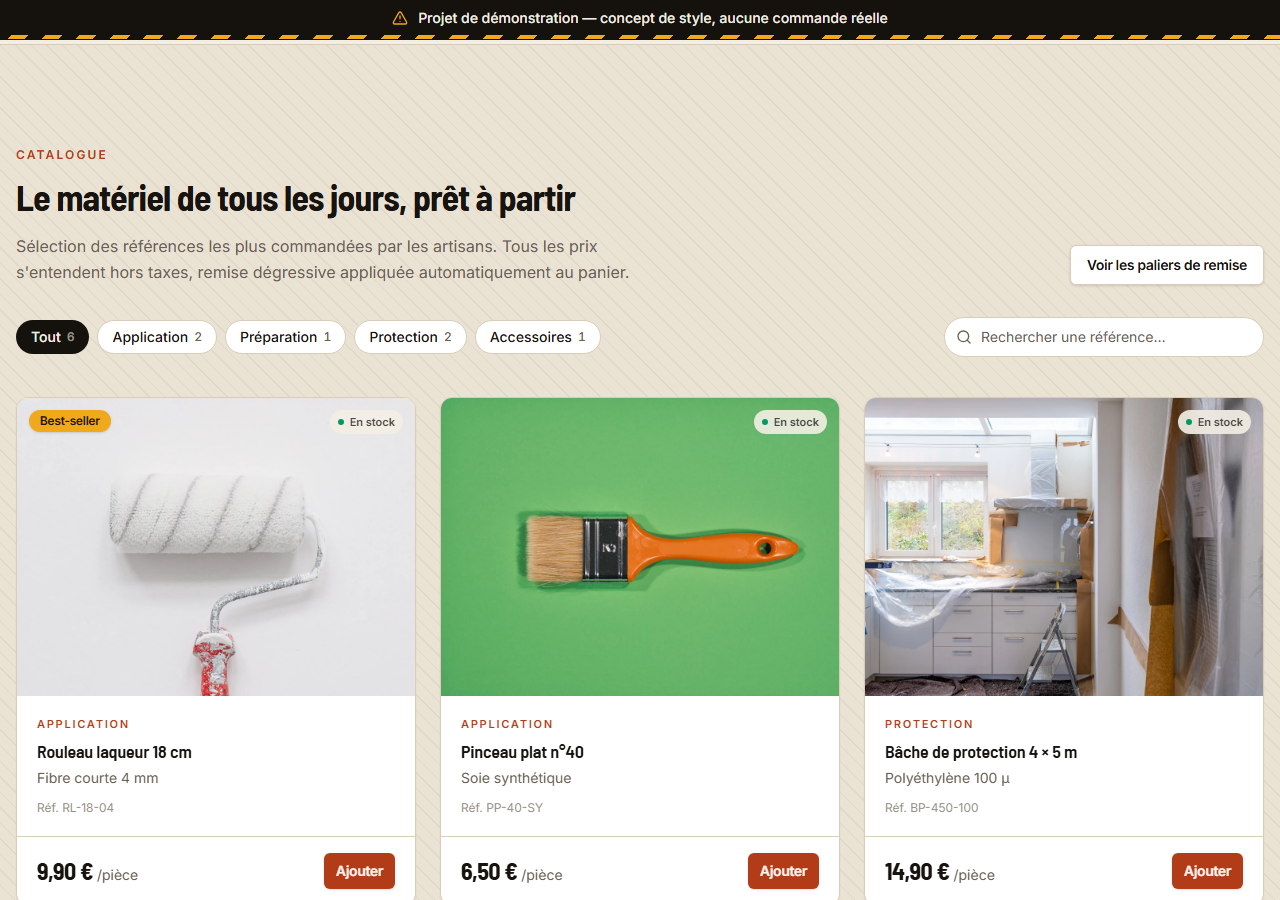
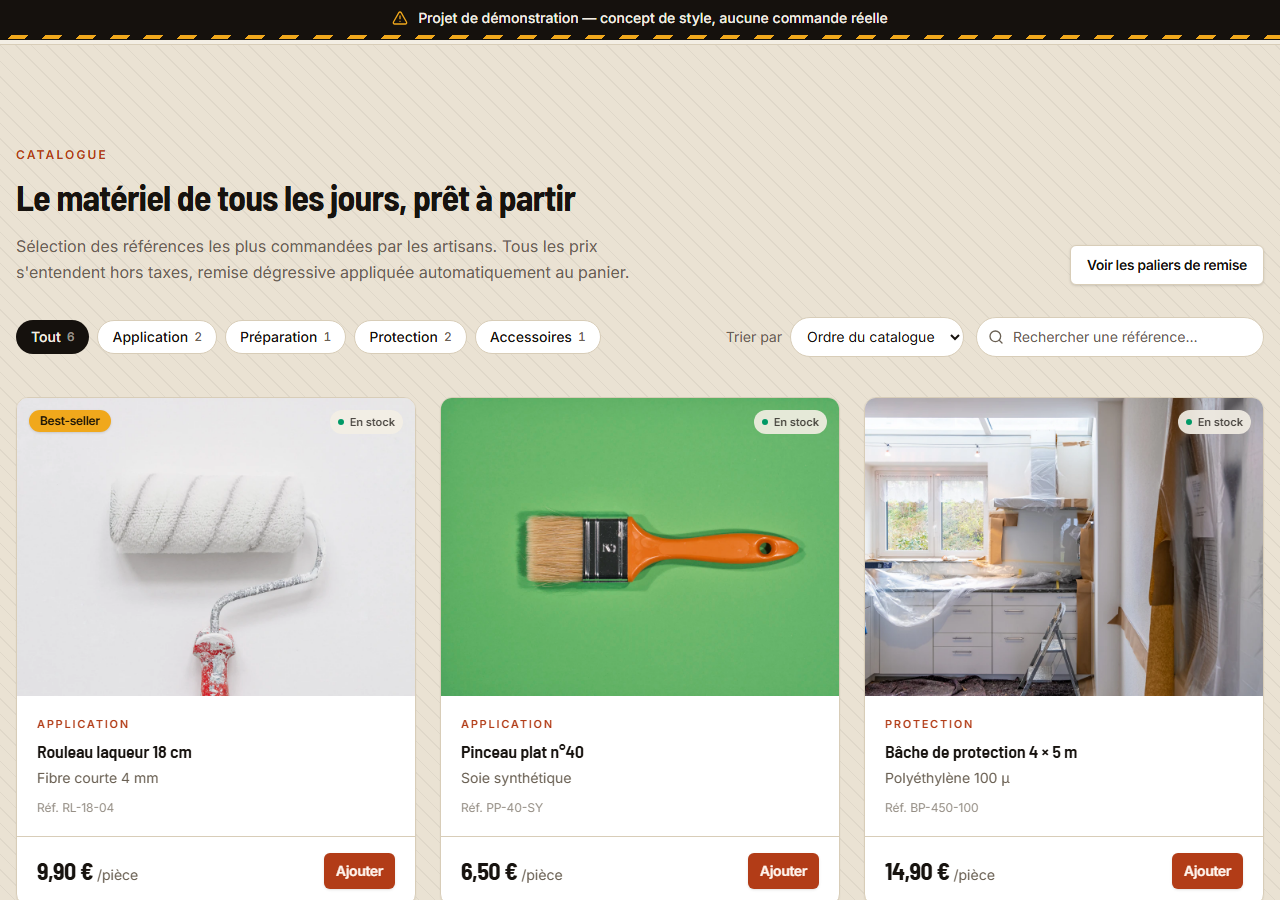
Ajoute un tri par prix au catalogue
Trois ordres : celui du catalogue par défaut, prix croissant, prix décroissant.
Le critère vit dans l'URL comme le filtre et la recherche, et les trois se
combinent : changer l'un préserve les autres, parce que toutes les URL du
catalogue passent désormais par un même constructeur au lieu d'être écrites à
la main à chaque lien — c'était le moyen sûr de ne pas perdre un critère en
route.

Un select natif plutôt qu'un composant maison : accessible au clavier et au
lecteur d'écran sans rien réimplémenter, et le menu reste celui du système.

Une valeur de tri non reconnue dans l'URL retombe sur l'ordre du catalogue.

Changed region(s): [[0.5938, 0.3422, 0.9375, 0.4044]]

diff --git a/src/components/sections/GrilleProduits.tsx b/src/components/sections/GrilleProduits.tsx
@@ -7,13 +7,15 @@ import { categories, produits, type Produit } from "@/data/produits"
 import { usePanier } from "@/panier/PanierContext"
 import {
   ID_CHAMP_RECHERCHE,
-  lienCategorie,
+  TRIS,
+  type Tri,
   lienProduit,
   naviguer,
   rechercheInitiale,
   remplacer,
   urlCatalogue,
   useCategorieAffichee,
+  useTri,
 } from "@/lib/navigation"
 import { cn, normaliser } from "@/lib/utils"
 
@@ -39,13 +41,19 @@ function correspond(produit: Produit, terme: string) {
 export function GrilleProduits() {
   const { ajouter } = usePanier()
   const categorieActive = useCategorieAffichee()
+  const tri = useTri()
   // L'URL n'alimente le champ qu'au montage : en faire la source de vérité
   // ferait sauter le curseur à chaque frappe au milieu du texte.
   const [recherche, setRecherche] = React.useState(rechercheInitiale)
 
+  /** Reconstruit l'URL depuis l'état courant : aucun critère n'est perdu en
+   *  route quand on n'en change qu'un seul. */
+  const url = (modifications: Parameters<typeof urlCatalogue>[0] = {}) =>
+    urlCatalogue({ categorie: categorieActive, recherche, tri, ...modifications })
+
   function changerRecherche(valeur: string) {
     setRecherche(valeur)
-    remplacer(urlCatalogue({ categorie: categorieActive, recherche: valeur }))
+    remplacer(url({ recherche: valeur }))
   }
 
   const parCategorie = categorieActive
@@ -57,7 +65,13 @@ export function GrilleProduits() {
       (p) => (!valeur || p.categorie === valeur) && correspond(p, recherche),
     ).length
 
-  const visibles = parCategorie.filter((p) => correspond(p, recherche))
+  const correspondants = parCategorie.filter((p) => correspond(p, recherche))
+  const visibles =
+    tri === "catalogue"
+      ? correspondants
+      : [...correspondants].sort((a, b) =>
+          tri === "prix-asc" ? a.prix - b.prix : b.prix - a.prix,
+        )
 
   return (
     <section
@@ -96,11 +110,11 @@ export function GrilleProduits() {
               return (
                 <li key={filtre.libelle}>
                   <a
-                    href={lienCategorie(filtre.valeur, recherche)}
+                    href={url({ categorie: filtre.valeur })}
                     aria-current={actif ? "true" : undefined}
                     onClick={(e) => {
                       e.preventDefault()
-                      naviguer(lienCategorie(filtre.valeur, recherche), {
+                      naviguer(url({ categorie: filtre.valeur }), {
                         defilerEnHaut: false,
                       })
                     }}
@@ -129,7 +143,29 @@ export function GrilleProduits() {
           </ul>
         </nav>
 
-        <div className="relative lg:w-80">
+        <div className="flex flex-col gap-3 sm:flex-row sm:items-center">
+        <label className="flex items-center gap-2 text-sm text-muted-foreground">
+          <span className="shrink-0">Trier par</span>
+          {/* `select` natif : accessible au clavier et au lecteur d'écran sans
+              rien réimplémenter, et le menu reste celui du système. */}
+          <select
+            value={tri}
+            onChange={(e) =>
+              naviguer(url({ tri: e.target.value as Tri }), {
+                defilerEnHaut: false,
+              })
+            }
+            className="h-10 rounded-full border border-border bg-card px-3 text-sm text-foreground focus-visible:border-primary focus-visible:outline-none focus-visible:ring-2 focus-visible:ring-ring focus-visible:ring-offset-2 focus-visible:ring-offset-plaster"
+          >
+            {TRIS.map((option) => (
+              <option key={option.valeur} value={option.valeur}>
+                {option.libelle}
+              </option>
+            ))}
+          </select>
+        </label>
+
+        <div className="relative sm:w-72">
           <Search
             className="pointer-events-none absolute left-3 top-1/2 size-4 -translate-y-1/2 text-muted-foreground"
             aria-hidden="true"
@@ -155,15 +191,16 @@ export function GrilleProduits() {
           )}
         </div>
         </div>
+        </div>
 
         {/* Cascade d'apparition en CSS : le délai porte sur l'enveloppe, la
             carte garde son propre `transform` pour le survol. */}
         <div className="grid grid-cols-1 gap-6 sm:grid-cols-2 lg:grid-cols-3">
           {visibles.map((produit, index) => (
             <div
-              // La clé inclut la catégorie active : sans elle React réutilise
-              // les nœuds d'un filtre à l'autre et l'apparition ne rejoue pas.
-              key={`${categorieActive ?? "tout"}-${produit.id}`}
+              // La clé inclut la catégorie et le tri : sans eux React réutilise
+              // les nœuds d'un état à l'autre et l'apparition ne rejoue pas.
+              key={`${categorieActive ?? "tout"}-${tri}-${produit.id}`}
               className="animate-apparition"
               style={{ animationDelay: `${index * 100}ms` }}
             >

diff --git a/src/lib/navigation.ts b/src/lib/navigation.ts
@@ -26,13 +26,28 @@ export function lienAccueil() {
  * qu'un lien ouvert à froid défile jusqu'à la grille — voir
  * `useDefilementVersAncre`.
  */
+export type Tri = "catalogue" | "prix-asc" | "prix-desc"
+
+/** `catalogue` est l'ordre par défaut : il n'apparaît pas dans l'URL. */
+export const TRIS: { valeur: Tri; libelle: string }[] = [
+  { valeur: "catalogue", libelle: "Ordre du catalogue" },
+  { valeur: "prix-asc", libelle: "Prix croissant" },
+  { valeur: "prix-desc", libelle: "Prix décroissant" },
+]
+
 export function urlCatalogue({
   categorie = null,
   recherche = "",
-}: { categorie?: string | null; recherche?: string } = {}) {
+  tri = "catalogue",
+}: {
+  categorie?: string | null
+  recherche?: string
+  tri?: Tri
+} = {}) {
   const parametres = new URLSearchParams()
   if (categorie) parametres.set("categorie", categorie)
   if (recherche.trim()) parametres.set("recherche", recherche.trim())
+  if (tri !== "catalogue") parametres.set("tri", tri)
   const requete = parametres.toString()
   return `${import.meta.env.BASE_URL}${requete ? `?${requete}` : ""}#catalogue`
 }
@@ -97,6 +112,13 @@ export function useProduitAffiche(): string | null {
 export function useCategorieAffichee(): string | null {
   const parametres = React.useSyncExternalStore(souscrire, instantane, () => "")
   return new URLSearchParams(parametres).get("categorie")
+}
+
+export function useTri(): Tri {
+  const parametres = React.useSyncExternalStore(souscrire, instantane, () => "")
+  const valeur = new URLSearchParams(parametres).get("tri")
+  // Une valeur inconnue retombe sur l'ordre par défaut plutôt que de casser.
+  return valeur === "prix-asc" || valeur === "prix-desc" ? valeur : "catalogue"
 }
 
 /** Terme de recherche présent dans l'URL au chargement. */

diff --git a/README.md b/README.md
@@ -17,7 +17,7 @@ en dessous.
 
 ![Grille produits : six cartes avec photo en 4:3, badge best-seller, pastille de stock, prix à l'unité](docs/captures/02-catalogue.png)
 
-Le catalogue, sa recherche et ses filtres par catégorie. Chaque carte porte sa
+Le catalogue, sa recherche, son tri et ses filtres par catégorie. Chaque carte porte sa
 photo en plein cadre, son état de stock, sa référence et son prix à l'unité.
 
 ![Fiche produit : grande photo, prix, sélecteur de quantité et tableau du prix unitaire à chaque palier](docs/captures/06-produit.png)
@@ -100,15 +100,23 @@ Deux états vivent dans l'URL, gérés par
 
 - `?produit=<id>` — la fiche produit, ouverte en cliquant une carte ;
 - `?categorie=<nom>` — le filtre du catalogue ;
-- `?recherche=<terme>` — la recherche, qui se combine au filtre.
+- `?recherche=<terme>` — la recherche ;
+- `?tri=prix-asc|prix-desc` — le tri par prix.
+
+Les trois derniers se combinent librement : changer l'un préserve les autres,
+car toutes les URL du catalogue passent par un même constructeur.
 
 Pas de routeur : le site est servi en sous-chemin sur GitHub Pages, où des URL
 en segments renverraient un 404 sans page de repli, et sa navigation repose sur
 des ancres (`#catalogue`) qu'un routeur à hash confisquerait. Les liens restent
 partageables, le bouton retour du navigateur défait le filtre comme la fiche, et
 une valeur inconnue dégrade proprement — un produit introuvable retombe sur
-l'accueil, une catégorie vide affiche un message. Passer à react-router ne
-toucherait que ce fichier et `App.tsx`.
+l'accueil, une catégorie vide affiche un message, un tri non reconnu revient à
+l'ordre du catalogue. Passer à react-router ne toucherait que ce fichier et
+`App.tsx`.
+
+Le tri est un `<select>` natif : accessible au clavier et au lecteur d'écran
+sans rien réimplémenter, et le menu déroulant reste celui du système.
 
 Les filtres sont de vrais liens plutôt que des boutons, et les quatre vignettes
 de catégories du hero pointent sur le filtre correspondant : elles se
